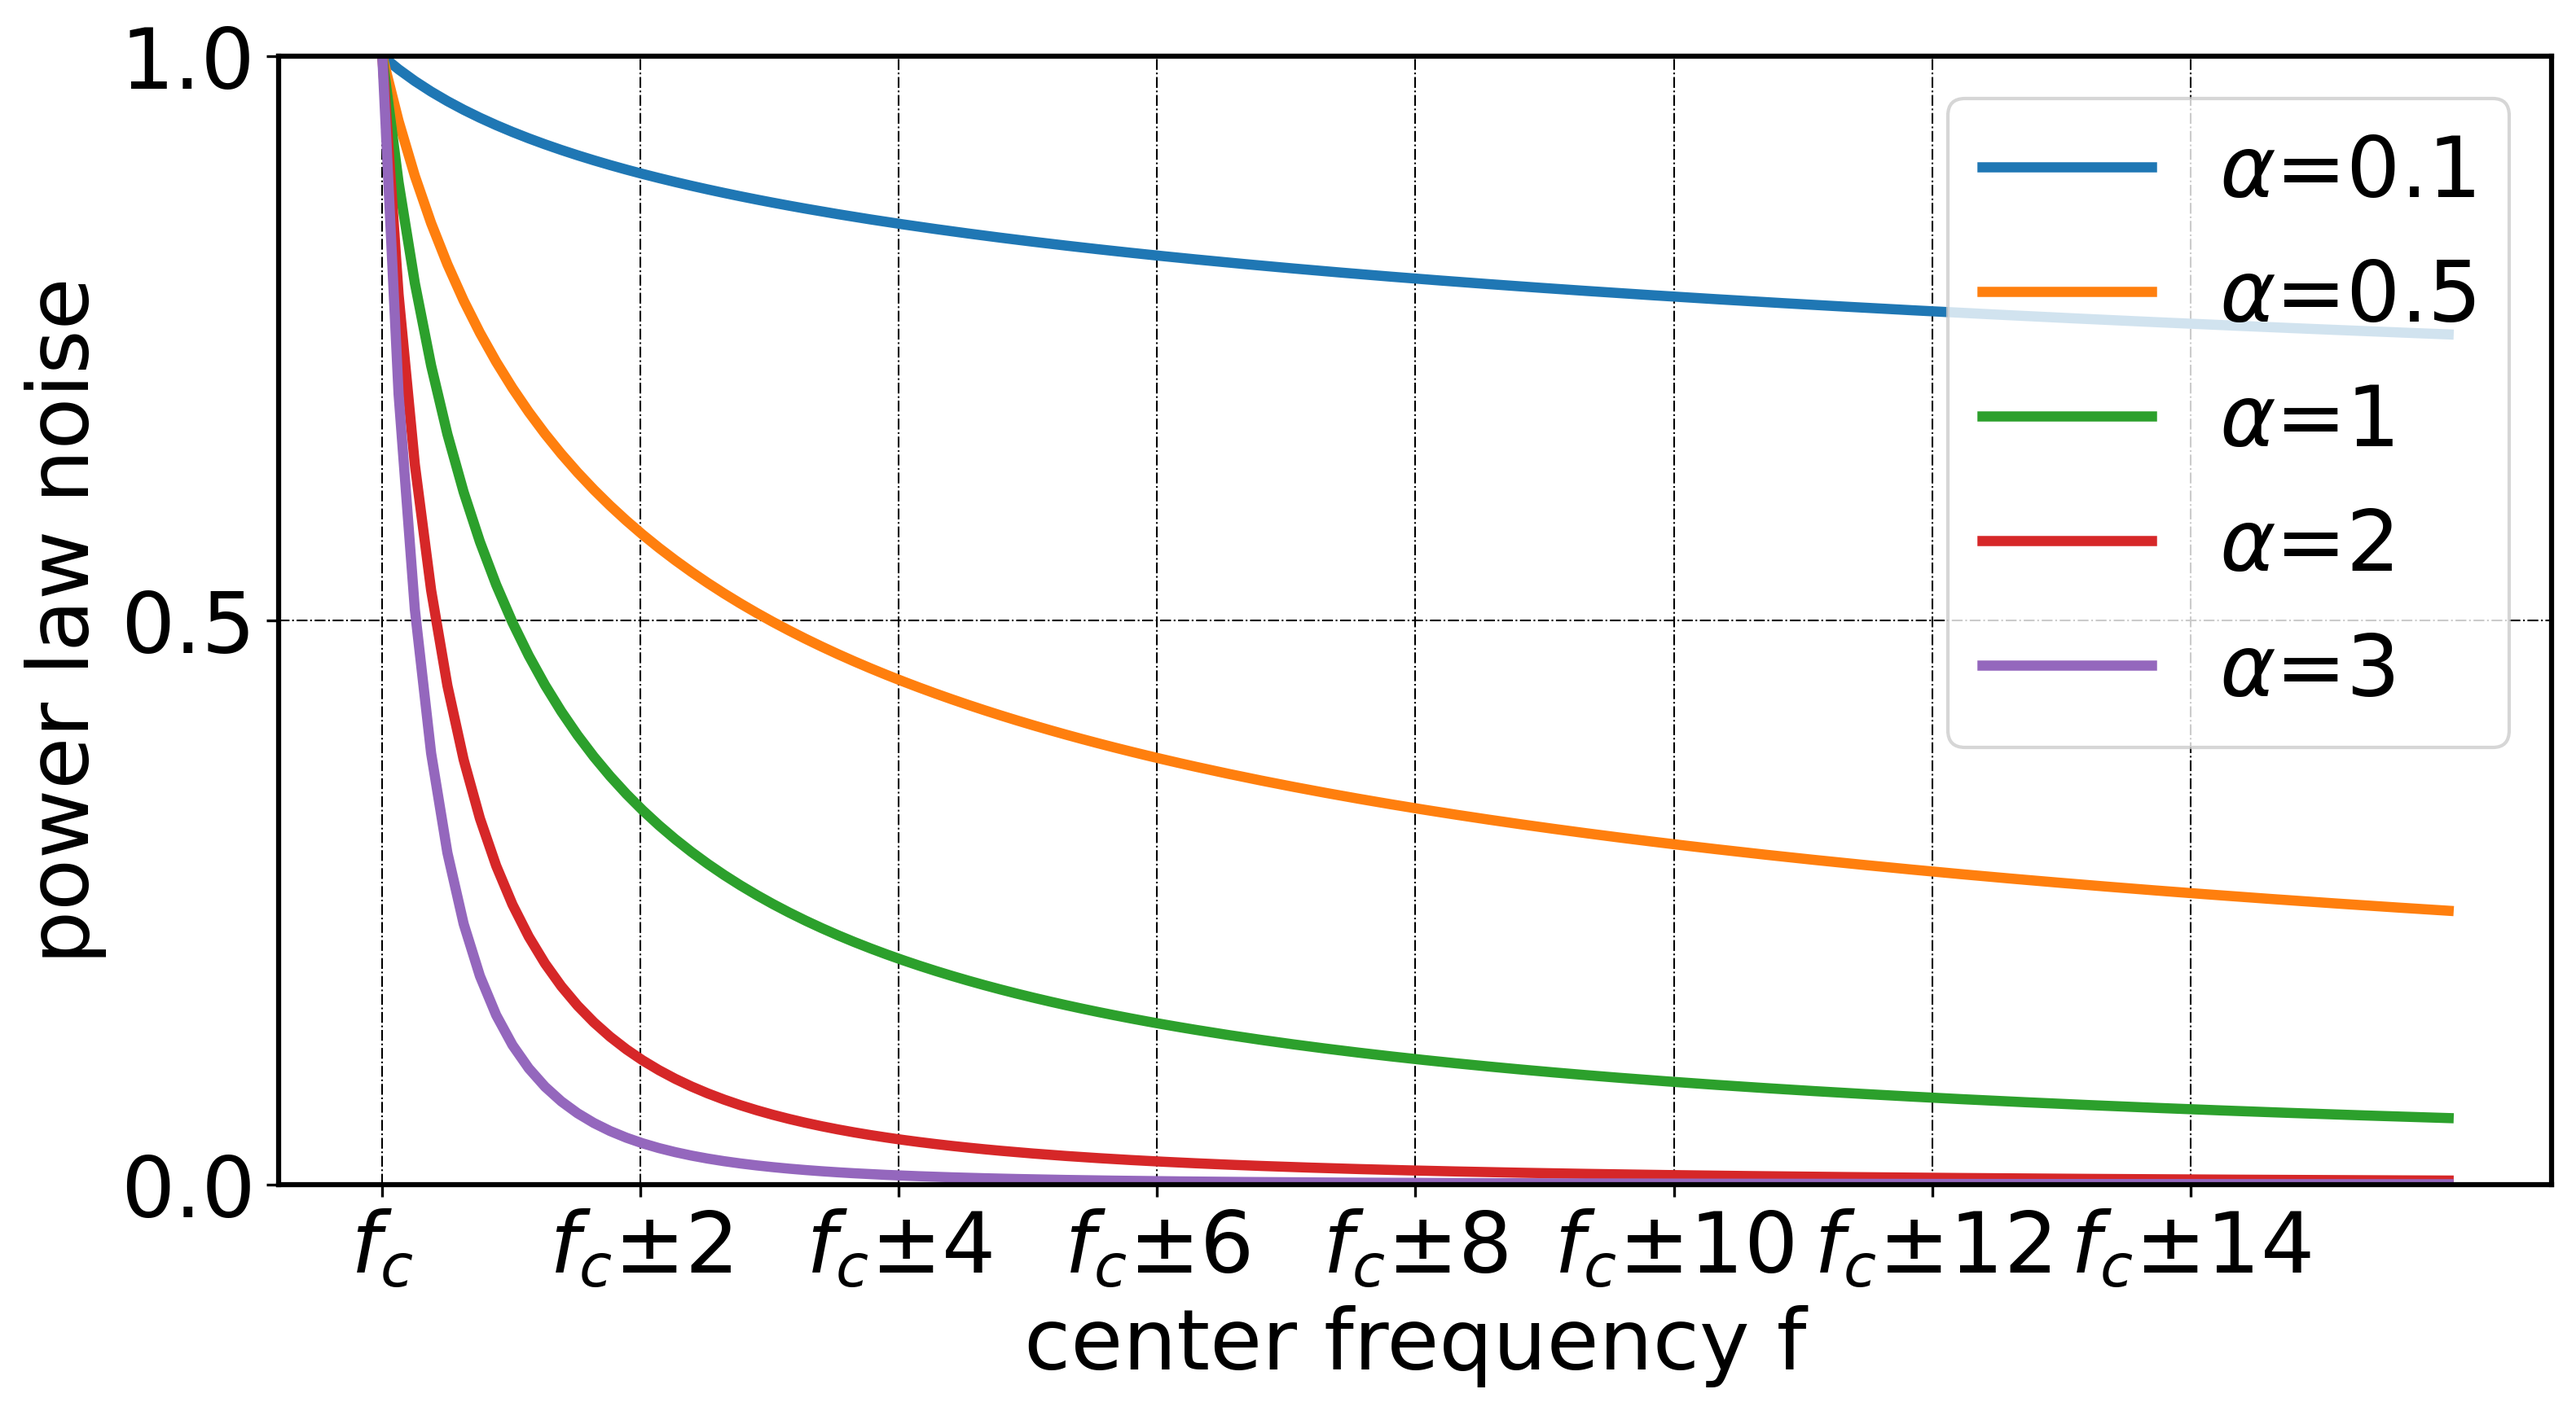
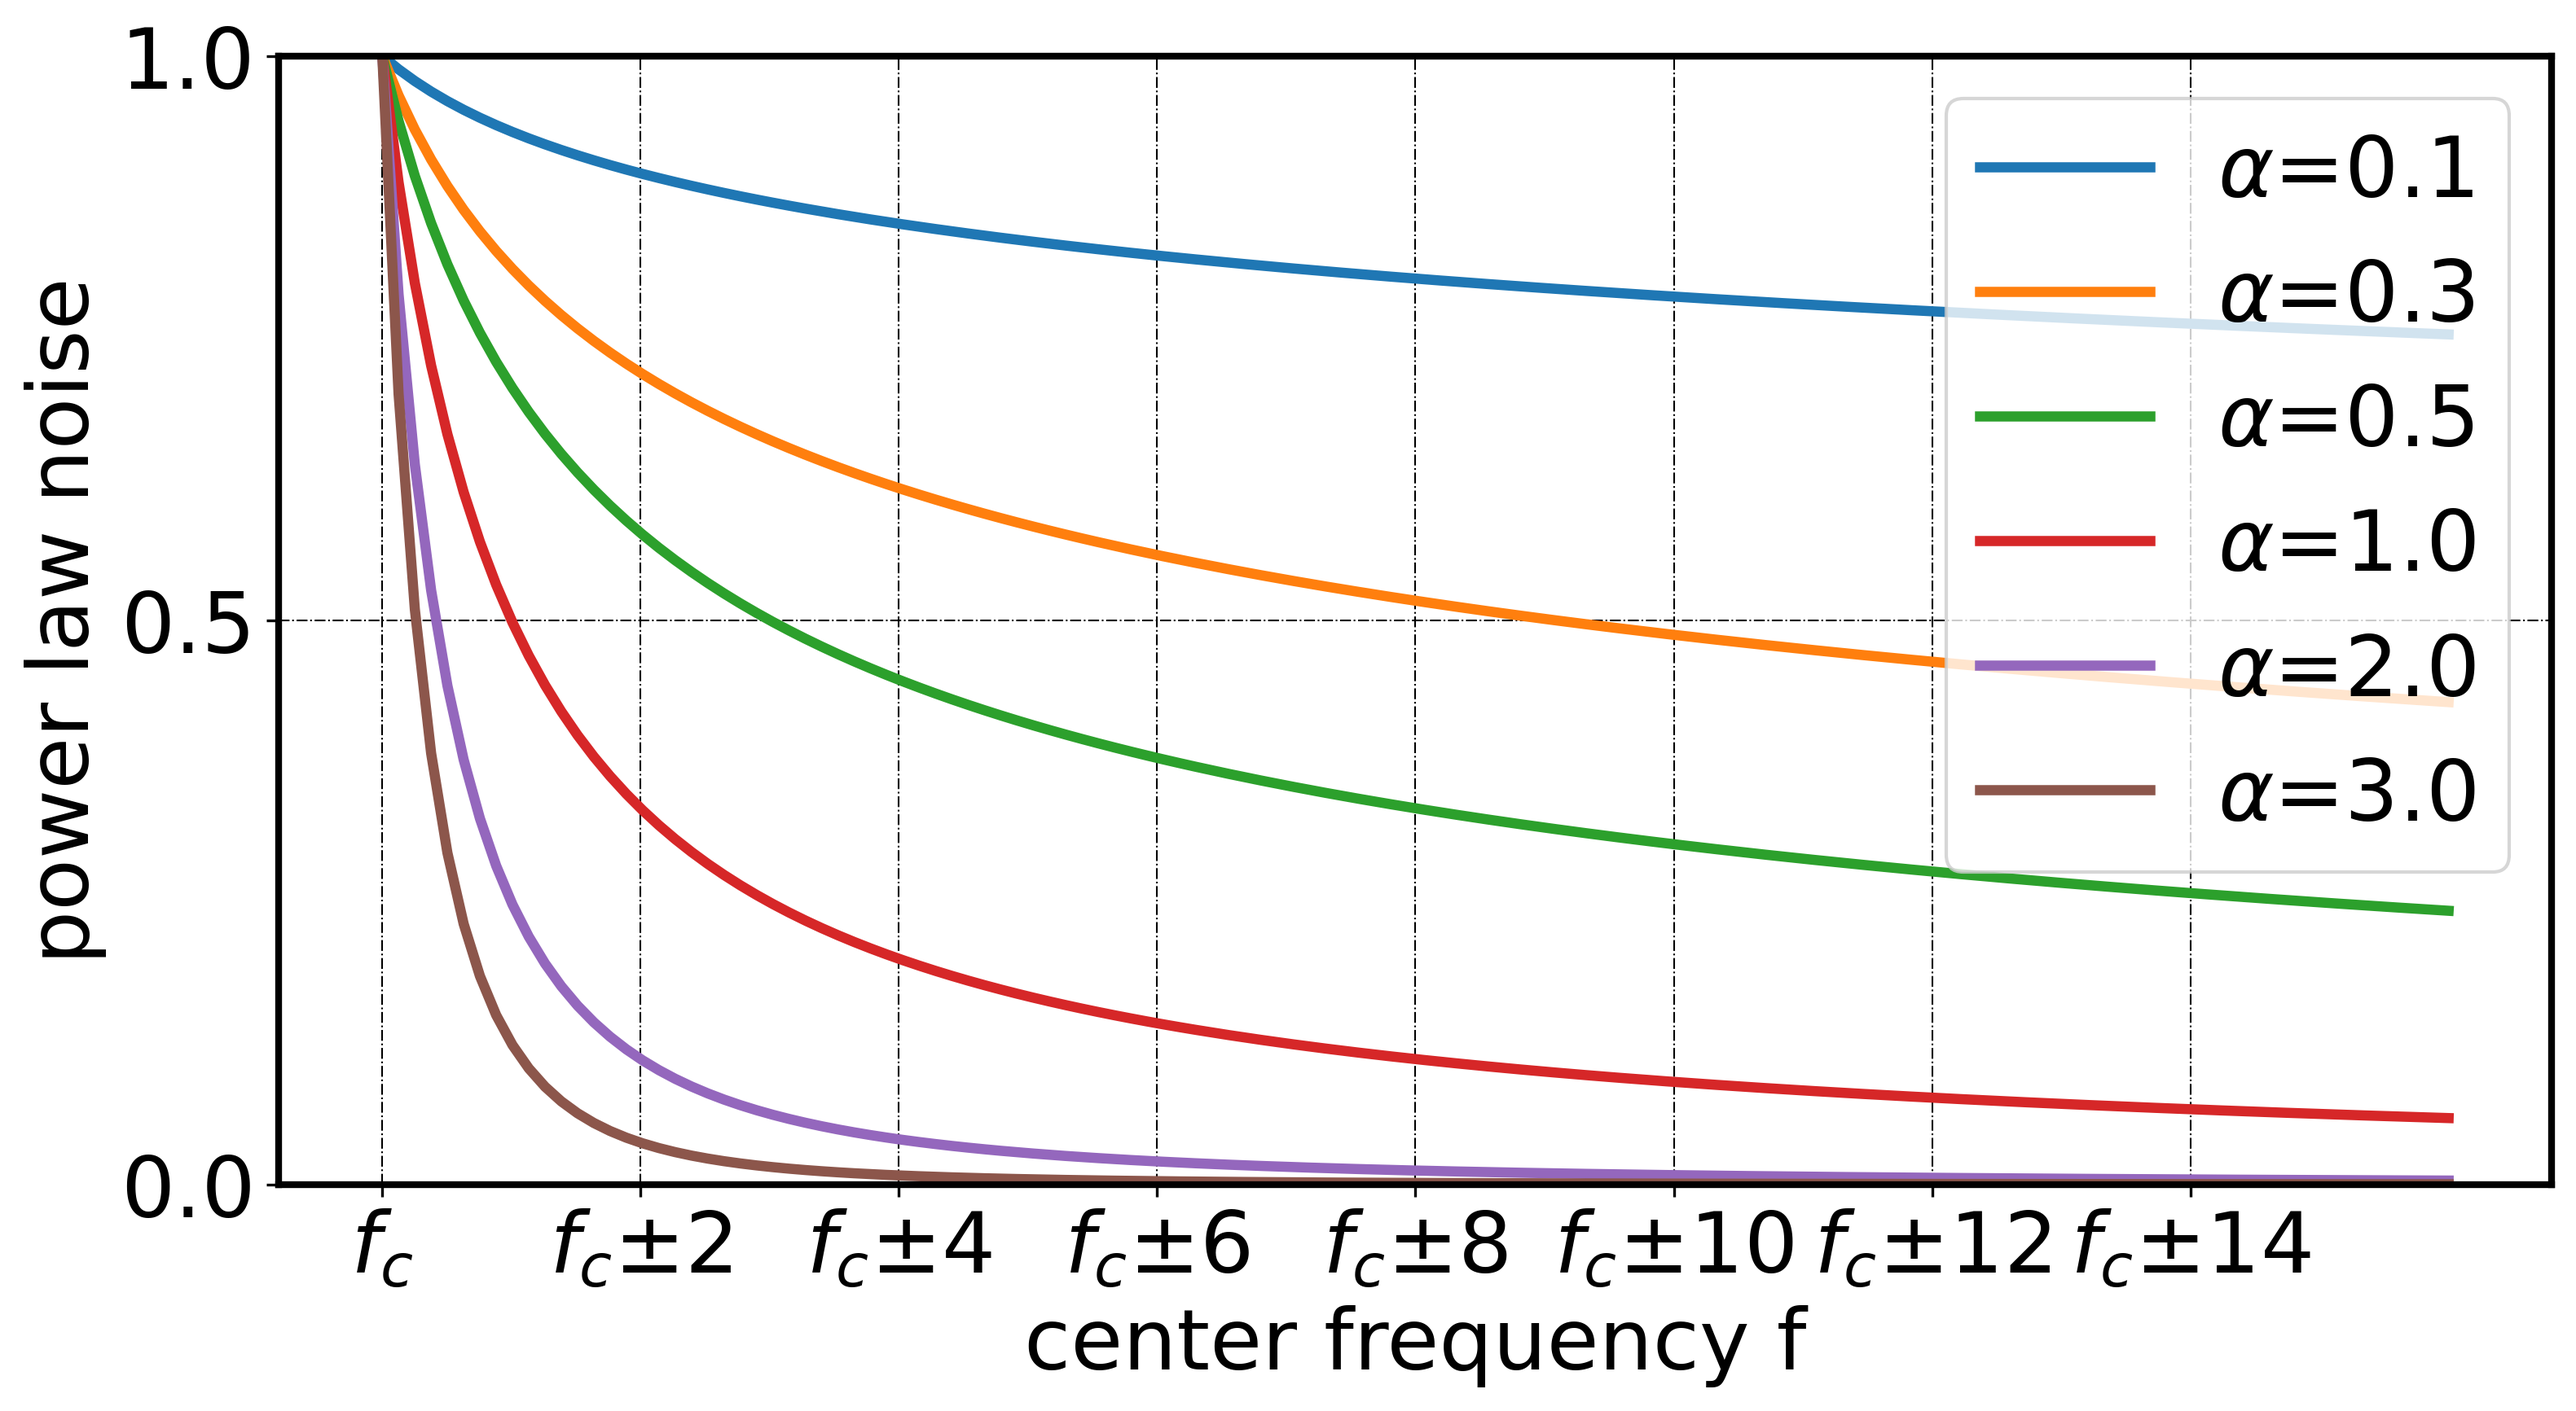
certify fouriermix imagenet

diff --git a/analysis/plot_power_law.py b/analysis/plot_power_law.py
@@ -3,7 +3,7 @@ Description:
 Autor: Jiachen Sun
 Date: 2021-10-07 22:19:25
 LastEditors: Jiachen Sun
-LastEditTime: 2021-10-11 22:43:01
+LastEditTime: 2021-10-12 00:11:20
 '''
 import os
 import re
@@ -20,6 +20,7 @@ def power_law(x,alpha):
 
 x = np.linspace(0,16,num=128)
 y0 = power_law(x,0.1)
+y03 = power_law(x,0.3)
 y1 = power_law(x,0.5)
 y2 = power_law(x,1)
 y3 = power_law(x,2)
@@ -32,10 +33,10 @@ ax = plt.gca()#获取边框
 # ax.spines['right'].set_color('none')  
 # ax.set_xticks = [0,20,50,100,200,500,1000,2000]
 # ax.set_xticklabels = [0,20,50,100,200,500,1000,2000]
-ax.spines['bottom'].set_linewidth(1.5)
-ax.spines['left'].set_linewidth(1.5)
-ax.spines['top'].set_linewidth(1.5)
-ax.spines['right'].set_linewidth(1.5)
+ax.spines['bottom'].set_linewidth(2)
+ax.spines['left'].set_linewidth(2)
+ax.spines['top'].set_linewidth(2)
+ax.spines['right'].set_linewidth(2)
 # ax.set_xscale("log")
 ax.xaxis.set_major_locator(MultipleLocator(500))
 ax.yaxis.set_major_locator(MultipleLocator(15))
@@ -43,10 +44,11 @@ ax.yaxis.set_major_locator(MultipleLocator(15))
 plt.grid( color = 'black',linestyle='-.',linewidth = 0.5)
 
 l0=plt.plot(x,y0, label=r'$\alpha$=0.1',markersize=9,lw=3)
+l03=plt.plot(x,y03, label=r'$\alpha$=0.3',markersize=9,lw=3)
 l1=plt.plot(x,y1, label=r'$\alpha$=0.5',markersize=9,lw=3)
-l2=plt.plot(x,y2, label=r'$\alpha$=1',markersize=9,lw=3)
-l3=plt.plot(x,y3, label=r'$\alpha$=2',markersize=9,lw=3)
-l4=plt.plot(x,y4, label=r'$\alpha$=3',markersize=9,lw=3)
+l2=plt.plot(x,y2, label=r'$\alpha$=1.0',markersize=9,lw=3)
+l3=plt.plot(x,y3, label=r'$\alpha$=2.0',markersize=9,lw=3)
+l4=plt.plot(x,y4, label=r'$\alpha$=3.0',markersize=9,lw=3)
 
 
 plt.xlabel('center frequency f',fontsize=25)
